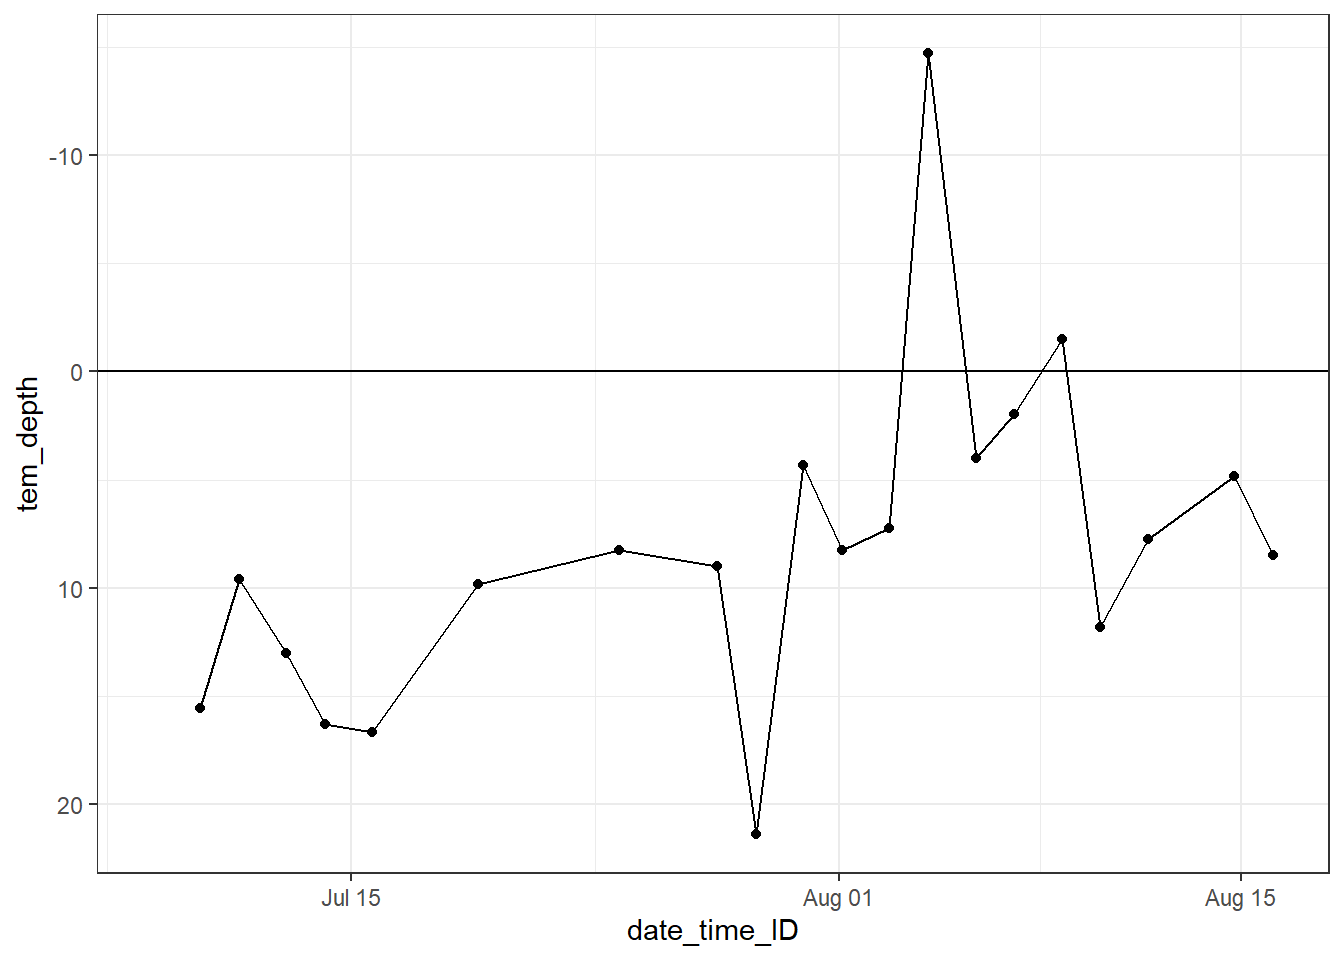
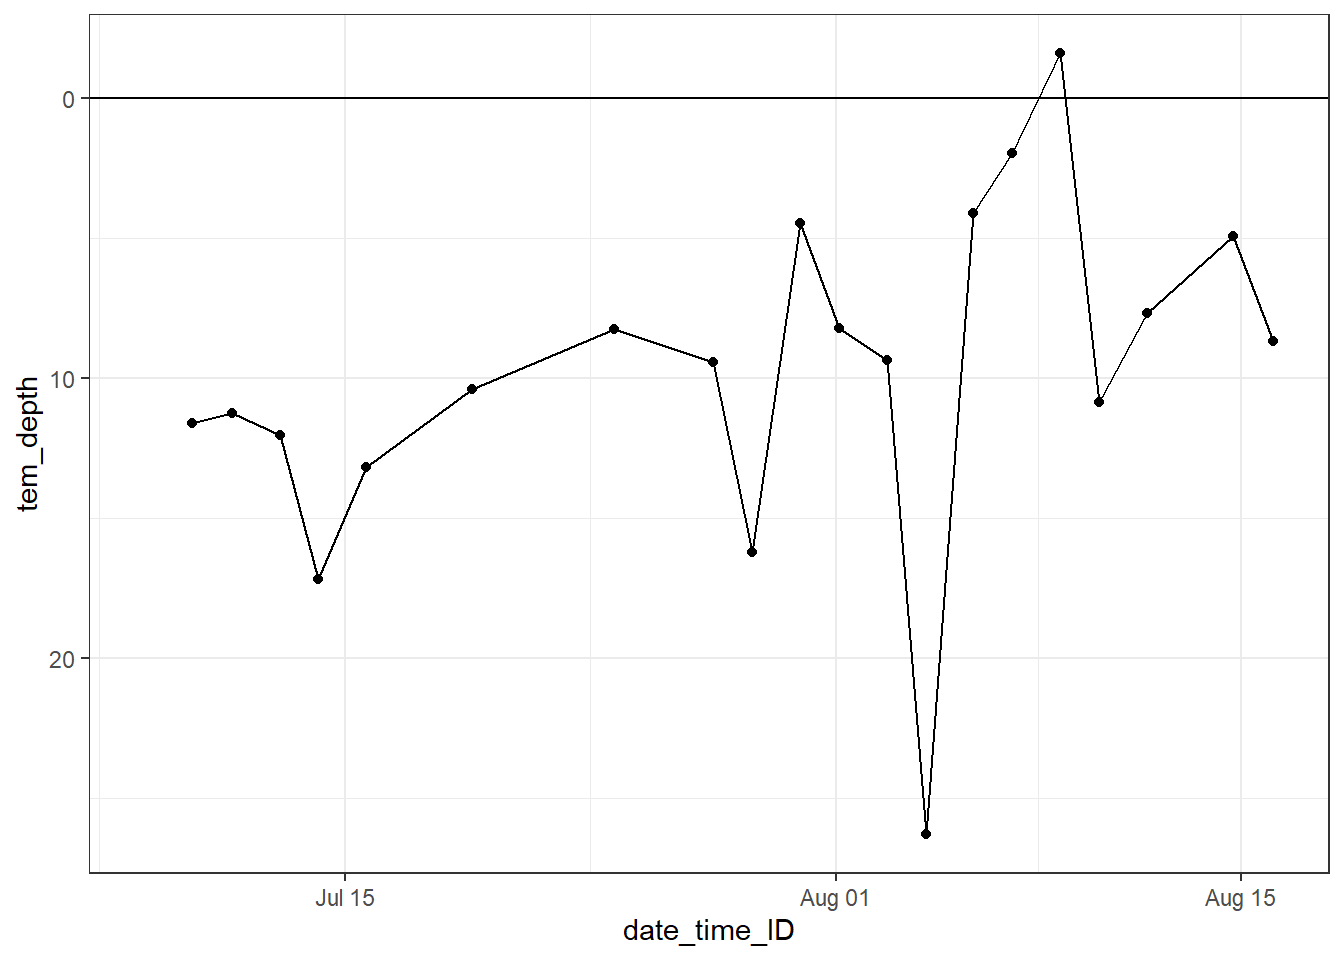
Build site.

diff --git a/docs/Finnmaid+GETM.html b/docs/Finnmaid+GETM.html
@@ -439,7 +439,7 @@ div.tocify {
 
 <h1 class="title toc-ignore">Finnmaid and GETM</h1>
 <h4 class="author">Jens Daniel Müller und Lara Sophie Burchardt</h4>
-<h4 class="date">14 April, 2020</h4>
+<h4 class="date">15 April, 2020</h4>
 
 </div>
 
@@ -464,7 +464,7 @@ div.tocify {
 <div class="tab-content">
 <div id="summary" class="tab-pane fade in active">
 <p>
-<strong>Last updated:</strong> 2020-04-14
+<strong>Last updated:</strong> 2020-04-15
 </p>
 <p>
 <strong>Checks:</strong> <span class="glyphicon glyphicon-ok text-success" aria-hidden="true"></span> 7 <span class="glyphicon glyphicon-exclamation-sign text-danger" aria-hidden="true"></span> 0
@@ -555,16 +555,16 @@ This reproducible <a href="http://rmarkdown.rstudio.com">R Markdown</a> analysis
 <div class="panel panel-default">
 <div class="panel-heading">
 <p class="panel-title">
-<a data-toggle="collapse" data-parent="#workflowr-checks" href="#strongRepositoryversionstrongahrefhttpsgithubcomjensdanielmuellerBloomSailtreee7c8528004158524b1ddf66c659426bcdce53060targetblanke7c8528a"> <span class="glyphicon glyphicon-ok text-success" aria-hidden="true"></span> <strong>Repository version:</strong> <a href="https://github.com/jens-daniel-mueller/BloomSail/tree/e7c8528004158524b1ddf66c659426bcdce53060" target="_blank">e7c8528</a> </a>
+<a data-toggle="collapse" data-parent="#workflowr-checks" href="#strongRepositoryversionstrongahrefhttpsgithubcomjensdanielmuellerBloomSailtree3aaff30c8068a78b51016c53c959af254f4e121atargetblank3aaff30a"> <span class="glyphicon glyphicon-ok text-success" aria-hidden="true"></span> <strong>Repository version:</strong> <a href="https://github.com/jens-daniel-mueller/BloomSail/tree/3aaff30c8068a78b51016c53c959af254f4e121a" target="_blank">3aaff30</a> </a>
 </p>
 </div>
[2 lines of base64/hex data omitted]
 <div class="panel-body">
 <p>
 Great! You are using Git for version control. Tracking code development and connecting the code version to the results is critical for reproducibility.
 </p>
 <p>
-The results in this page were generated with repository version <a href="https://github.com/jens-daniel-mueller/BloomSail/tree/e7c8528004158524b1ddf66c659426bcdce53060" target="_blank">e7c8528</a>. See the <em>Past versions</em> tab to see a history of the changes made to the R Markdown and HTML files.
+The results in this page were generated with repository version <a href="https://github.com/jens-daniel-mueller/BloomSail/tree/3aaff30c8068a78b51016c53c959af254f4e121a" target="_blank">3aaff30</a>. See the <em>Past versions</em> tab to see a history of the changes made to the R Markdown and HTML files.
 </p>
 <p>
 Note that you need to be careful to ensure that all relevant files for the analysis have been committed to Git prior to generating the results (you can use <code>wflow_publish</code> or <code>wflow_git_commit</code>). workflowr only checks the R Markdown file, but you know if there are other scripts or data files that it depends on. Below is the status of the Git repository when the results were generated:
@@ -573,6 +573,7 @@ Note that you need to be careful to ensure that all relevant files for the analy
 Ignored files:
     Ignored:    .Rhistory
     Ignored:    .Rproj.user/
+    Ignored:    analysis/figure/
     Ignored:    data/Finnmaid_2018/
     Ignored:    data/GETM/
     Ignored:    data/Maps/
@@ -619,6 +620,40 @@ Message
 </tr>
 </thead>
 <tbody>
+<tr>
+<td>
+Rmd
+</td>
+<td>
+<a href="https://github.com/jens-daniel-mueller/BloomSail/blob/3aaff30c8068a78b51016c53c959af254f4e121a/analysis/Finnmaid+GETM.Rmd" target="_blank">3aaff30</a>
+</td>
+<td>
+jens-daniel-mueller
+</td>
+<td>
+2020-04-15
+</td>
+<td>
+T penetration depth for GETM BloomSail comparison added
+</td>
+</tr>
+<tr>
+<td>
+html
+</td>
+<td>
+<a href="https://rawcdn.githack.com/jens-daniel-mueller/BloomSail/4748ea0a776863f8d605263414283ed1d5eb4db6/docs/Finnmaid+GETM.html" target="_blank">4748ea0</a>
+</td>
+<td>
+jens-daniel-mueller
+</td>
+<td>
+2020-04-14
+</td>
+<td>
+Build site.
+</td>
+</tr>
 <tr>
 <td>
 Rmd
@@ -2086,6 +2121,52 @@ ts_gt_3d %&gt;%
   facet_grid(.~var, scales = &quot;free_x&quot;)+
   labs(x=&quot;Difference GETM (gt) - Bloomsail (ts)&quot;)</code></pre>
 <p><img src="figure/Finnmaid+GETM.Rmd/gt_ts_profiles_diff_salt_temp_rho-1.png" width="672" style="display: block; margin: auto;" /></p>
+</div>
+<div id="heat-penetration-depth" class="section level3">
+<h3><span class="header-section-number">2.1.2</span> Heat penetration depth</h3>
+<p>As an alternative approach to the integration over the MLD or the reconstruction of C<sub>T</sub> profiles, we can estimate the mean penetration depth of the warming signal, which was defined the surface change in temperature devided by the integrated change in seawater temperature across depth.</p>
+<pre class="r"><code>tem_diff_surface &lt;- ts_gt_3d_long %&gt;% 
+  filter(dep &lt; 6,
+         var==&quot;tem&quot;) %&gt;% 
+  select(date_time_ID = date_time, source, tem=value) %&gt;% 
+  group_by(date_time_ID, source) %&gt;% 
+  summarise_all(mean, na.rm=TRUE) %&gt;% 
+  ungroup() 
+
+tem_diff_surface &lt;- tem_diff_surface %&gt;% 
+  group_by(source) %&gt;% 
+  arrange(date_time_ID) %&gt;% 
+  mutate(tem_diff_surface = tem - lag(tem)) %&gt;% 
+  ungroup() %&gt;% 
+  select(-tem)
+
+ts_gt_3d_long &lt;- ts_gt_3d_long %&gt;% 
+  filter(var==&quot;tem&quot;) %&gt;% 
+  select(date_time_ID = date_time, source, dep, tem=value) %&gt;% 
+  group_by(source, dep) %&gt;% 
+  arrange(date_time_ID) %&gt;% 
+  mutate(tem_diff = tem - lag(tem)) %&gt;% 
+  ungroup() %&gt;% 
+  select(-tem)
+
+ts_gt_3d_long &lt;- full_join(ts_gt_3d_long, tem_diff_surface) 
+rm(tem_diff_surface)
+
+tem_depth &lt;- ts_gt_3d_long %&gt;%
+  filter(dep &lt; 18) %&gt;% 
+  group_by(date_time_ID, source) %&gt;% 
+  summarise(tem_diff_int = sum(tem_diff),
+            tem_diff_surface = mean(tem_diff_surface),
+            tem_depth = tem_diff_int/tem_diff_surface) %&gt;% 
+  ungroup()
+
+tem_depth %&gt;% 
+  ggplot(aes(date_time_ID, tem_depth, col=source))+
+  geom_hline(yintercept = 0)+
+  geom_line()+
+  geom_point()+
+  scale_y_reverse()</code></pre>
+<p><img src="figure/Finnmaid+GETM.Rmd/heat_penetration_depth_comparison-1.png" width="672" style="display: block; margin: auto;" /></p>
 <pre class="r"><code>rm(ts_gt_3d, ts_gt_3d_long, ts_profiles_ID)</code></pre>
 </div>
 </div>
@@ -2673,12 +2754,15 @@ Hovmoeller plots of cumulative reconstructed changes in C<sub>T</sub>.
 </div>
 <pre class="r"><code>rm(bin_CT)</code></pre>
 </div>
-<div id="heat-penetration-depth" class="section level3">
+<div id="heat-penetration-depth-1" class="section level3">
 <h3><span class="header-section-number">4.2.7</span> Heat penetration depth</h3>
 <p>As an alternative approach to the integration over the MLD or the reconstruction of C<sub>T</sub> profiles, we can estimate the mean penetration depth of the warming signal, which was defined the surface change in temperature devided by the integrated change in seawater temperature across depth.</p>
 <pre class="r"><code>tem_diff_surface &lt;- fm_gt_3d %&gt;% 
-  filter(dep == 3) %&gt;% 
-  select(date_time_ID, tem_diff_surface=tem_diff)
+  filter(dep &lt; 6) %&gt;% 
+  select(date_time_ID, tem_diff_surface=tem_diff) %&gt;% 
+  group_by(date_time_ID) %&gt;% 
+  summarise_all(mean, na.rm=TRUE) %&gt;% 
+  ungroup()
 
 fm_gt_3d &lt;- full_join(fm_gt_3d, tem_diff_surface) 
 rm(tem_diff_surface)
